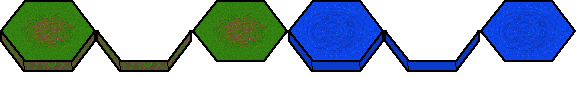
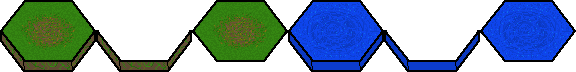
fixed image size, added antialiasing

diff --git a/src/View/ViewUtilities/ImageAssets.java b/src/View/ViewUtilities/ImageAssets.java
@@ -1,5 +1,7 @@
 package View.ViewUtilities;
 
+import Utilities.Settings;
+
 import java.awt.image.BufferedImage;
 
 /**
@@ -7,21 +9,25 @@ import java.awt.image.BufferedImage;
  */
 public class ImageAssets {
 
-    private static final int width = 96; //width and height of sprites
-    private static final int height = 96;
-    private static final int sneakWidth = 42; //width and height of sprites
-    private static final int sneakHeight = 70;
-    private static final int smasherWidth = 37; //width and height of sprites
-    private static final int smasherHeight = 75;
+    //private static final int width = 96; //width and height of sprites
+    //private static final int height = 96;
+    private static final int sneakWidth = Settings.ENTITYWIDTH; //width and height of sprites
+    private static final int sneakHeight = Settings.ENTITYHEIGHT;
+    private static final int smasherWidth = Settings.ENTITYWIDTH; //width and height of sprites
+    private static final int smasherHeight = Settings.ENTITYHEIGHT;
+    private static final int terrainWidth = 96;
+    private static final int terrainHeight = 72;
+
     public static BufferedImage smasherSW, smasherNW, smasherN, smasherNE, smasherSE, smasherS;
     public static BufferedImage sneakSW, sneakNW, sneakN, sneakNE, sneakSE, sneakS;
-    public static BufferedImage grass;
+    public static BufferedImage grass, grass2, dirt, water;
 
     //needs to be called once
     public static void init(){
-        SpriteSheet smasherSheet = new SpriteSheet(SpriteLoader.loadImage("./res/Entity/newSmasher.png"));
-        SpriteSheet sneakSheet = new SpriteSheet(SpriteLoader.loadImage("./res/Entity/newSneak.png"));
-        SpriteSheet terrainSheet = new SpriteSheet(SpriteLoader.loadImage("./res/terrain/grass.png"));
+        SpriteSheet smasherSheet = new SpriteSheet(SpriteLoader.loadImage("./res/Entity/Smasher.png"));
+        SpriteSheet sneakSheet = new SpriteSheet(SpriteLoader.loadImage("./res/Entity/Sneak.png"));
+        SpriteSheet terrainSheet = new SpriteSheet(SpriteLoader.loadImage("./res/terrain/terrainsWithWater.png"));
+        SpriteSheet waterSheet = new SpriteSheet(SpriteLoader.loadImage("./res/terrain/water2.png"));
 
         smasherSW = smasherSheet.cropSheet(0,0, smasherWidth, smasherHeight);
         smasherNW = smasherSheet.cropSheet(smasherWidth*1, 0, smasherWidth, smasherHeight);
@@ -36,6 +42,11 @@ public class ImageAssets {
         sneakNE = sneakSheet.cropSheet(sneakWidth*3, 0, sneakWidth, sneakHeight);
         sneakSE = sneakSheet.cropSheet(sneakWidth*4, 0, sneakWidth, sneakHeight);
         sneakS = sneakSheet.cropSheet(sneakWidth*5, 0, sneakWidth, sneakHeight);
+
+        grass = terrainSheet.cropSheet(0,0,terrainWidth,terrainHeight);
+        grass2 = terrainSheet.cropSheet(terrainWidth*2,0,terrainWidth,terrainHeight);
+        dirt = terrainSheet.cropSheet(terrainWidth,0,terrainWidth,terrainHeight);
+        water = waterSheet.cropSheet(0,0,terrainWidth,terrainHeight);
 
 //        grass = terrainSheet.cropSheet(0,0, width, height);
 

diff --git a/src/View/TerrainView/WaterTileView.java b/src/View/TerrainView/WaterTileView.java
@@ -2,7 +2,9 @@ package View.TerrainView;
 
 import Model.Map.Location;
 import Model.Map.Tile.Tile;
+import Utilities.Settings;
 import Utilities.SpriteImageFactory;
+import View.ViewUtilities.ImageAssets;
 
 import java.awt.*;
 
@@ -10,21 +12,37 @@ import java.awt.*;
  * Created by dyeung on 4/7/16.
  */
 public class WaterTileView extends TileView {
-    private String url = "./res/terrain/water2.png";
+    //private String url = "./res/terrain/water2.png";
     public WaterTileView(Tile tile) {
         super(tile);
-        image = SpriteImageFactory.getImage(url);
-
+        //image = SpriteImageFactory.getImage(url);
+        image = ImageAssets.water;
     }
 
     @Override
     public void paintComponent(Graphics g) {
         //super.paintComponent(g);
         //System.out.println("GrassTileView: paint component: " + location.getX() + "," + location.getY());
-        g.drawImage(image,xPixel,yPixel,tileWidth,tileHeight,null);
+//        g.drawImage(image,xPixel,yPixel,tileWidth,tileHeight,null);
+//        String debug = location.getX() + "," + location.getY();
+//        Font f = new Font("Courier New", 1, 12);
+//        g.setFont(f);
+//        g.drawString(debug, xPixel+ (tileWidth/3), yPixel + (tileHeight/2));
+
+        Graphics2D g2d = (Graphics2D) g.create();
+        g2d.setRenderingHint(RenderingHints.KEY_INTERPOLATION,RenderingHints.VALUE_INTERPOLATION_BILINEAR);
+        g2d.setRenderingHint(RenderingHints.KEY_RENDERING,RenderingHints.VALUE_RENDER_QUALITY);
+        g2d.setRenderingHint(RenderingHints.KEY_ANTIALIASING,
+                RenderingHints.VALUE_ANTIALIAS_ON);
+
+        g2d.drawImage(image,xPixel* Settings.SCALEFACTOR,yPixel*Settings.SCALEFACTOR,tileWidth*Settings.SCALEFACTOR,tileHeight* Settings.SCALEFACTOR,null);
+//        g.setColor(Color.GREEN);
+//        g.drawRect(xPixel,yPixel,tileWidth,tileHeight);
+
         String debug = location.getX() + "," + location.getY();
         Font f = new Font("Courier New", 1, 12);
-        g.setFont(f);
-        g.drawString(debug, xPixel+ (tileWidth/3), yPixel + (tileHeight/2));
+        g2d.setFont(f);
+        g2d.drawString(debug, (xPixel+ (tileWidth/3))*Settings.SCALEFACTOR, (yPixel + (tileHeight/2))*Settings.SCALEFACTOR);
+        g2d.dispose();
     }
 }

diff --git a/src/View/TerrainView/GrassTileView.java b/src/View/TerrainView/GrassTileView.java
@@ -7,6 +7,7 @@ import Utilities.SpriteImageFactory;
 import View.AreaViewport.CameraView;
 import View.EntityView.EntityView;
 import View.ItemView.ItemView;
+import View.ViewUtilities.ImageAssets;
 
 import javax.swing.*;
 import java.awt.*;
@@ -17,12 +18,12 @@ import java.util.Set;
  * Created by dyeung on 4/5/16.
  */
 public class GrassTileView extends TileView{
-    private String url = "./res/terrain/grass.png";
+    //private String url = "./res/terrain/grass.png";
 
     private ArrayList<ItemView> itemViewArrayList;
     public GrassTileView(Tile tile){
         super(tile);
-        image = SpriteImageFactory.getImage(url);
+        image = ImageAssets.grass2;
         itemViewArrayList = new ArrayList<>();
     }
 
@@ -31,14 +32,22 @@ public class GrassTileView extends TileView{
         //super.paintComponent(g);
         //System.out.println("GrassTileView: paint component: " + location.getX() + "," + location.getY());
 
-        g.drawImage(image,xPixel,yPixel,tileWidth,tileHeight,null);
+        Graphics2D g2d = (Graphics2D) g.create();
+        g2d.setRenderingHint(RenderingHints.KEY_INTERPOLATION,RenderingHints.VALUE_INTERPOLATION_BILINEAR);
+        g2d.setRenderingHint(RenderingHints.KEY_RENDERING,RenderingHints.VALUE_RENDER_QUALITY);
+        g2d.setRenderingHint(RenderingHints.KEY_ANTIALIASING,
+                RenderingHints.VALUE_ANTIALIAS_ON);
+
+        g2d.drawImage(image,xPixel*Settings.SCALEFACTOR,yPixel*Settings.SCALEFACTOR,tileWidth*Settings.SCALEFACTOR,tileHeight* Settings.SCALEFACTOR,null);
 //        g.setColor(Color.GREEN);
 //        g.drawRect(xPixel,yPixel,tileWidth,tileHeight);
 
         String debug = location.getX() + "," + location.getY();
         Font f = new Font("Courier New", 1, 12);
-        g.setFont(f);
-        g.drawString(debug, xPixel+ (tileWidth/3), yPixel + (tileHeight/2));
+        g2d.setFont(f);
+        g2d.drawString(debug, (xPixel+ (tileWidth/3))*Settings.SCALEFACTOR, (yPixel + (tileHeight/2))*Settings.SCALEFACTOR);
+        g2d.dispose();
+
     }
 
 }

diff --git a/src/View/TerrainView/DirtTileView.java b/src/View/TerrainView/DirtTileView.java
@@ -1,7 +1,9 @@
 package View.TerrainView;
 
 import Model.Map.Tile.Tile;
+import Utilities.Settings;
 import Utilities.SpriteImageFactory;
+import View.ViewUtilities.ImageAssets;
 
 import java.awt.*;
 
@@ -9,13 +11,30 @@ import java.awt.*;
  * Created by dyeung on 4/9/16.
  */
 public class DirtTileView extends TileView{
-    private String url = "./res/terrain/grass.png"; //For now it'll look like a grass tile
+    //private String url = "./res/terrain/grass.png"; //For now it'll look like a grass tile
     public DirtTileView(Tile tile){
         super(tile);
-        image = SpriteImageFactory.getImage(url);
+        //image = SpriteImageFactory.getImage(url);
+        image = ImageAssets.dirt;
     }
     @Override
     public void paintComponent(Graphics g) {
-        g.drawImage(image,xPixel,yPixel,tileWidth,tileHeight,null);
+
+        //g.drawImage(image,xPixel,yPixel,tileWidth,tileHeight,null);
+        Graphics2D g2d = (Graphics2D) g.create();
+        g2d.setRenderingHint(RenderingHints.KEY_INTERPOLATION,RenderingHints.VALUE_INTERPOLATION_BILINEAR);
+        g2d.setRenderingHint(RenderingHints.KEY_RENDERING,RenderingHints.VALUE_RENDER_QUALITY);
+        g2d.setRenderingHint(RenderingHints.KEY_ANTIALIASING,
+                RenderingHints.VALUE_ANTIALIAS_ON);
+
+        g2d.drawImage(image,xPixel* Settings.SCALEFACTOR,yPixel*Settings.SCALEFACTOR,tileWidth*Settings.SCALEFACTOR,tileHeight* Settings.SCALEFACTOR,null);
+//        g.setColor(Color.GREEN);
+//        g.drawRect(xPixel,yPixel,tileWidth,tileHeight);
+
+        String debug = location.getX() + "," + location.getY();
+        Font f = new Font("Courier New", 1, 12);
+        g2d.setFont(f);
+        g2d.drawString(debug, (xPixel+ (tileWidth/3))*Settings.SCALEFACTOR, (yPixel + (tileHeight/2))*Settings.SCALEFACTOR);
+        g2d.dispose();
     }
 }

diff --git a/src/View/EntityView/CharacterView.java b/src/View/EntityView/CharacterView.java
@@ -2,6 +2,7 @@ package View.EntityView;
 
 import Model.Entity.Character.Avatar;
 import Model.Entity.Character.Character;
+import Utilities.Settings;
 import Utilities.Visitor.OccupationViewVisitor;
 import View.EntityView.AvatarViewFactory.OccupationViewFactory;
 import View.ViewUtilities.ImageAssets;
@@ -36,7 +37,21 @@ public class CharacterView extends EntityView implements OccupationViewVisitor {
         //g.setColor(Color.blue);
         //g.drawRect(xPixel,yPixel,entityWidth,entityHeight);
         updateOrientationImage();
-        g.drawImage(avatarImage,xPixel,yPixel,entityWidth, entityHeight,null);
+        //g.drawImage(avatarImage,xPixel,yPixel,entityWidth, entityHeight,null);
+
+
+        Graphics2D g2d = (Graphics2D) g.create();
+        g2d.setRenderingHint(RenderingHints.KEY_INTERPOLATION,RenderingHints.VALUE_INTERPOLATION_BILINEAR);
+        g2d.setRenderingHint(RenderingHints.KEY_RENDERING,RenderingHints.VALUE_RENDER_QUALITY);
+        g2d.setRenderingHint(RenderingHints.KEY_ANTIALIASING,
+                RenderingHints.VALUE_ANTIALIAS_ON);
+
+        g2d.drawImage(avatarImage,xPixel* Settings.SCALEFACTOR,yPixel*Settings.SCALEFACTOR,entityWidth*Settings.SCALEFACTOR,entityHeight* Settings.SCALEFACTOR,null);
+//        g.setColor(Color.GREEN);
+//        g.drawRect(xPixel,yPixel,tileWidth,tileHeight);
+
+
+        g2d.dispose();
     }
 
     @Override

diff --git a/src/Utilities/Settings.java b/src/Utilities/Settings.java
@@ -11,6 +11,7 @@ public class Settings {
 
     public static int GAMEWIDTH = 800;
     public static int GAMEHEIGHT = 600;
+    public static int SCALEFACTOR = 1;
     public static boolean debug = true;
     public static ErrorLevel errorLevel = ErrorLevel.NOTICE;
     public static PersonFilter personFilter = PersonFilter.ALL;
@@ -51,8 +52,10 @@ public class Settings {
 
     public static void setDebug() { debug = true; }
     //Original grass
-    public static int TILEWIDTH = 56;
-    public static int TILEHEIGHT = 48;
+    public static int TILEWIDTH = 96;
+    public static int TILEHEIGHT = 62; //used to be 48, shouldn't it be 62???
+    public static int ENTITYWIDTH = 42;
+    public static int ENTITYHEIGHT = 75;
     //Grass flat
 //    public static int TILEWIDTH = 96;
 //    public static int TILEHEIGHT = 62;

diff --git a/src/View/EntityView/EntityView.java b/src/View/EntityView/EntityView.java
@@ -19,8 +19,8 @@ public abstract class EntityView extends MapObjectView implements EntityObserver
     private int y; // on the coordinate system
     private int tileWidth = Settings.TILEWIDTH;
     private int tileHeight = Settings.TILEHEIGHT;
-    protected int entityWidth = 30;
-    protected int entityHeight = 48;
+    protected int entityWidth = Settings.ENTITYWIDTH;
+    protected int entityHeight = Settings.ENTITYHEIGHT;
     protected int xPixel; // on the map
     protected int yPixel; // on the map
     protected Location location;
